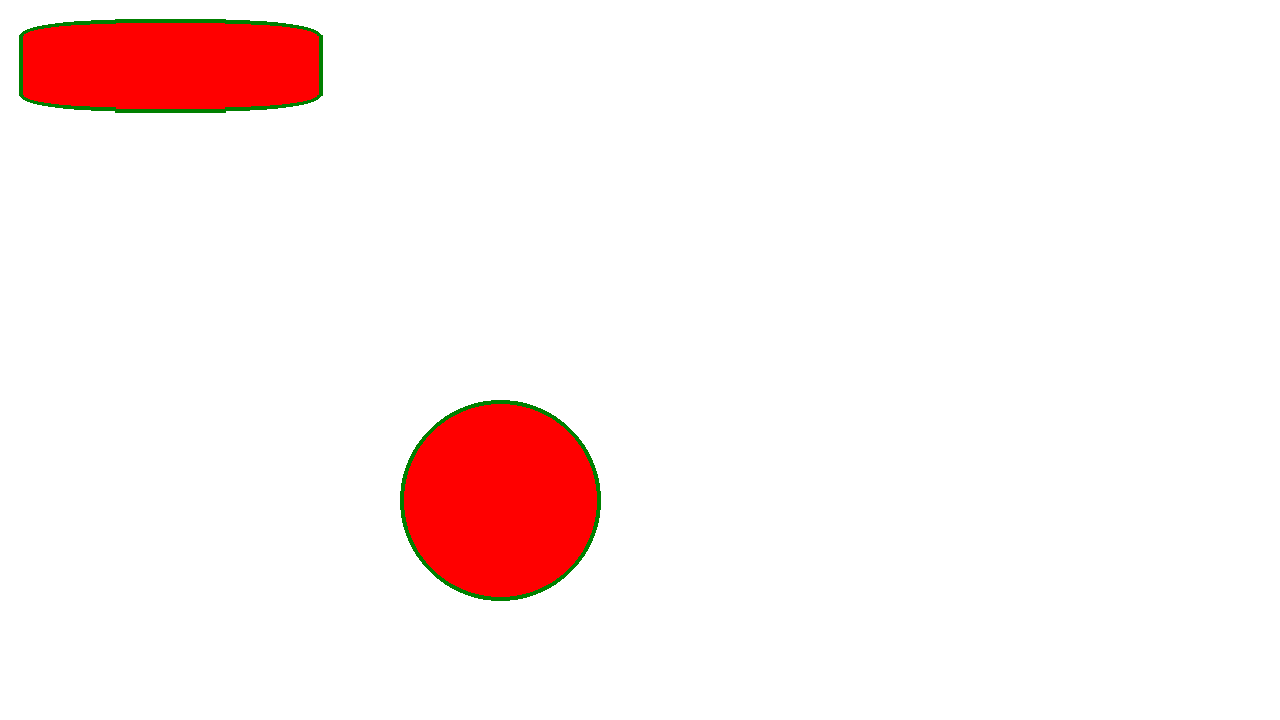
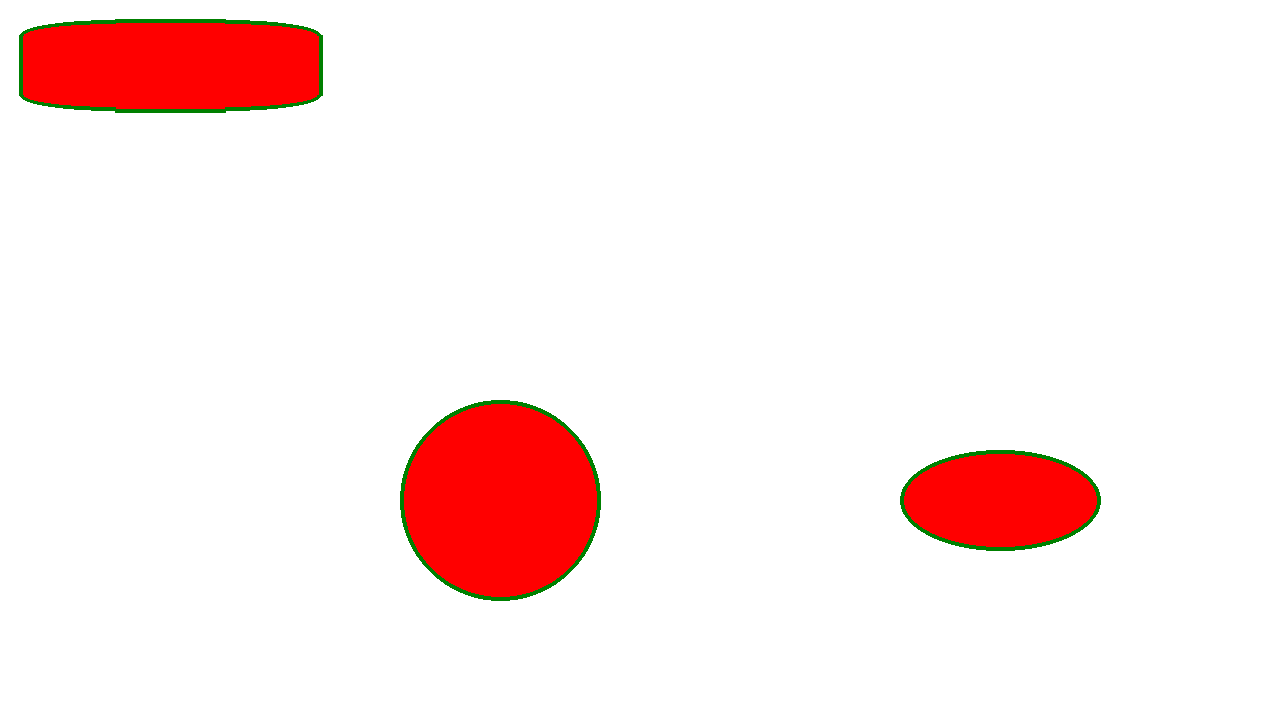
ellipse support

Changed region(s): [[0.6875, 0.6111, 0.875, 0.7639]]

diff --git a/svg-render.py b/svg-render.py
@@ -64,6 +64,24 @@ def draw_circle(draw, cx = 0 , cy = 0, r = 0, style = {"fill" : None, "stroke" :
 
 	return 
 
+def draw_ellipse(draw, cx = 0 , cy = 0, rx = 0, ry = 0, style = {"fill" : None, "stroke" : "Black", "stroke-width" : 1}):
+
+	if "fill" not in style.keys():
+		style["fill"] = None
+	
+	if "stroke" not in style.keys():
+		style["stroke"] = "Black"
+
+	if "stroke-width" not in style.keys():
+		style["stroke-width"] = 1
+
+	draw.arc([cx - rx,cy - ry,cx + rx, cy + ry], 0, 360, style["stroke"] ,width = style["stroke-width"])
+	
+	if style["fill"] != None:
+		ImageDraw.floodfill(im, (cx, cy), style["fill"])
+
+	return 
+
 tree = ET.parse('test.svg')
 root = tree.getroot()
 
@@ -76,5 +94,7 @@ fill_tr = (int(colors.to_rgb(fill_coll)[0])*255,int(colors.to_rgb(fill_coll)[1])
 style = {"fill":fill_tr,"stroke":"Green","stroke-width" : 4}
 draw_rect(draw,xcoord= 20 , ycoord = 20, width = 300, height = 90, style = style, rx = 95, ry = 15)
 draw_circle(draw, cx = 500, cy = 500, r = 100, style = style)
+draw_ellipse(draw, cx = 1000, cy = 500, rx = 100, ry = 50, style = style)
+
 
 im.save("test.png", "PNG")
